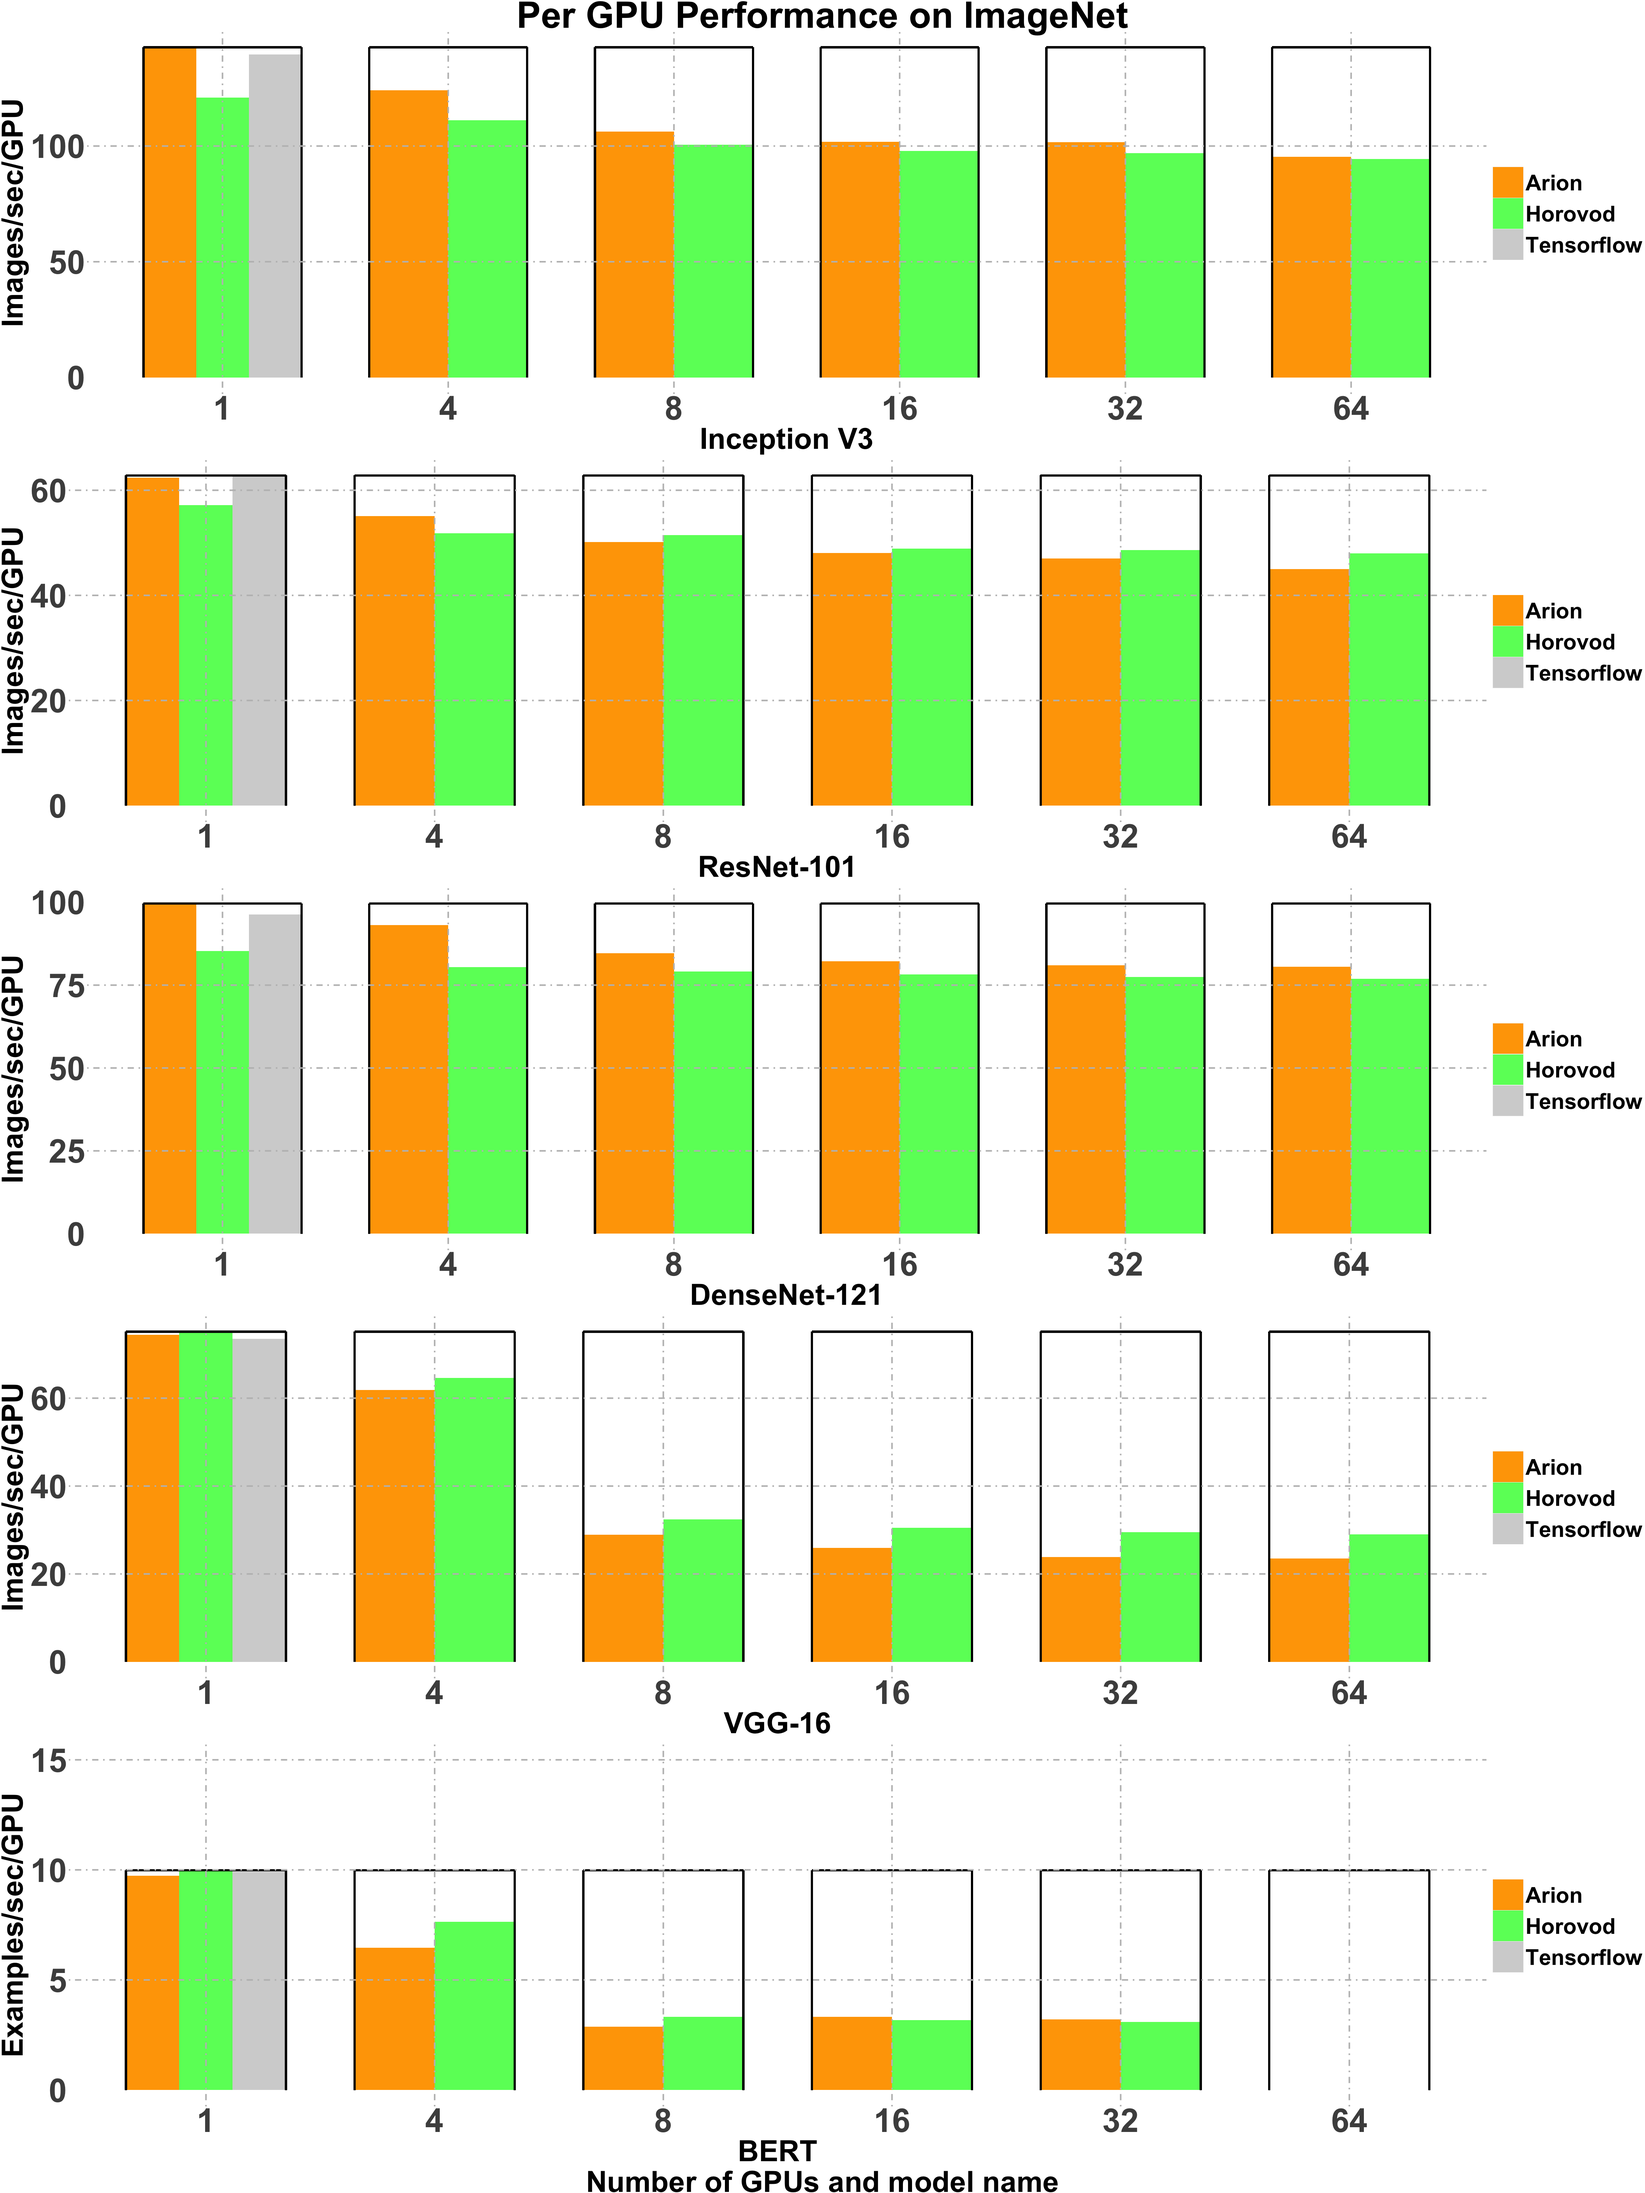
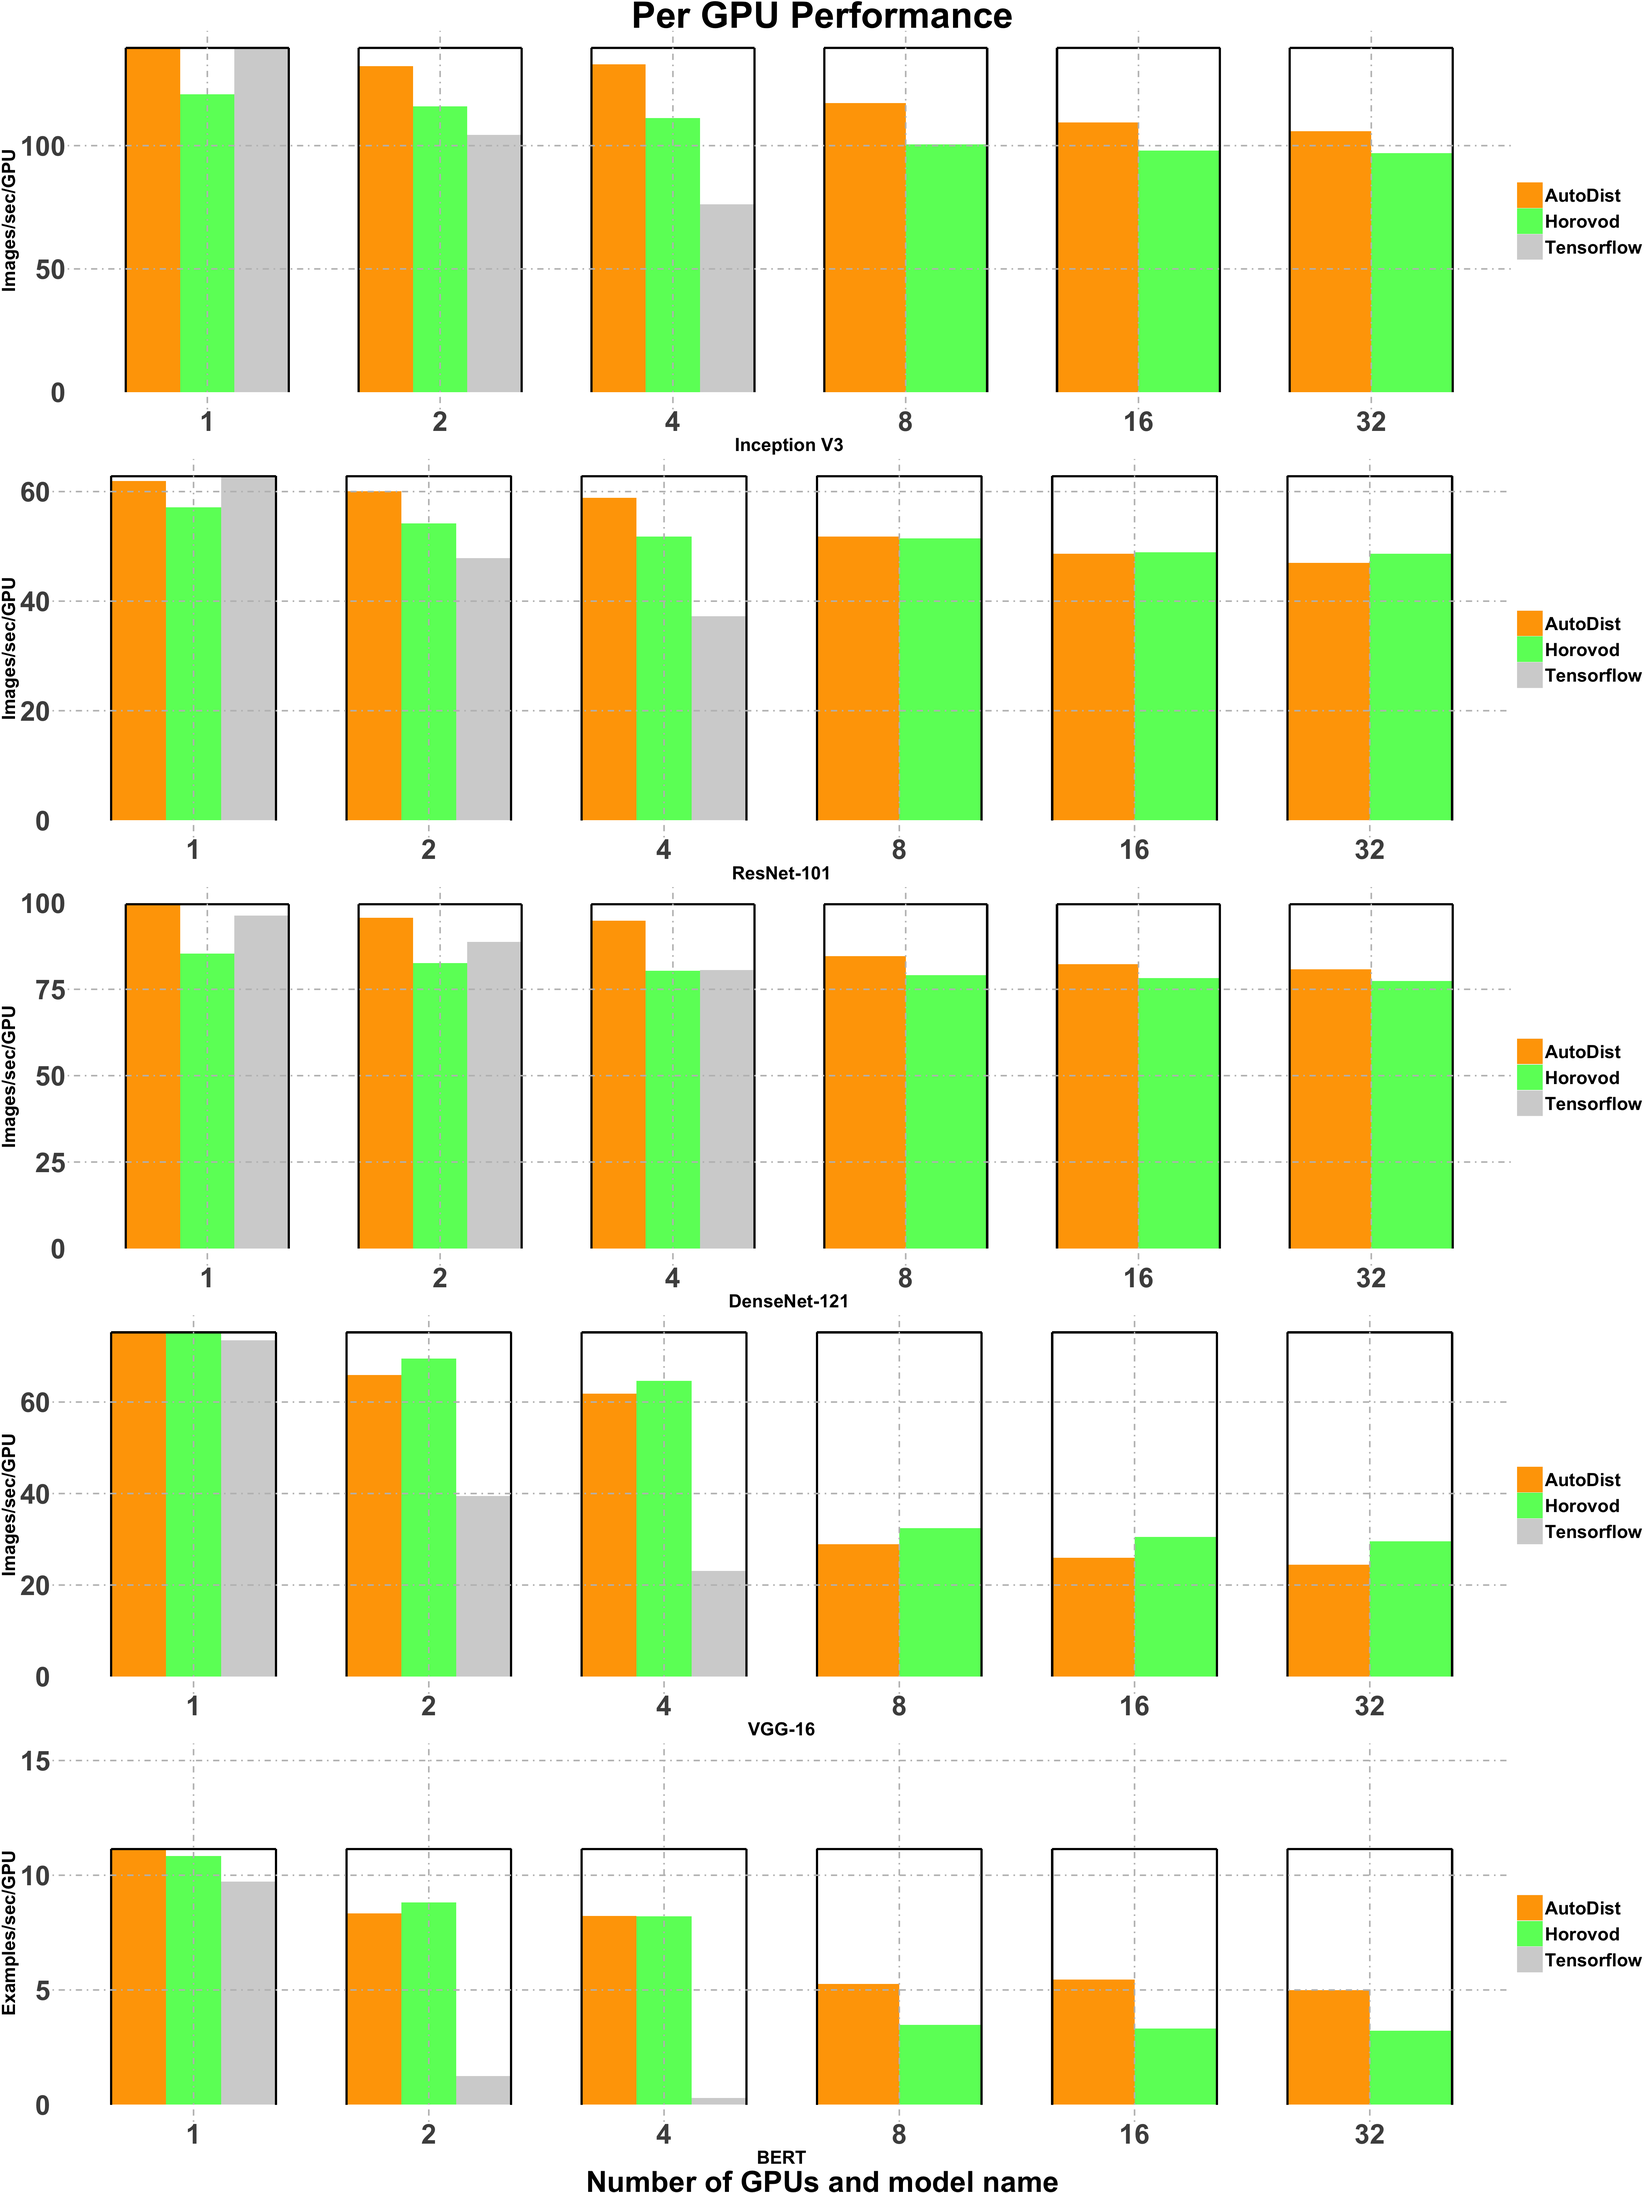
Update the performance figures (#3)
* replace figures

* update figures

diff --git a/README.md b/README.md
@@ -27,6 +27,11 @@ Besides all these advanced features, AutoDist is cautiously designed to isolate 
 from ML prototyping, and exposes a simple API that makes it easy to use and switch between different distributed ML techniques 
 for all-level users.
 
+<p float="left">
+<img src="docs/_static/img/Figure1.png " width="400" />
+<img src="docs/_static/img/Figure2.png " width="400" /> 
+</p>
+
 ## Using AutoDist
 
 Installation:
